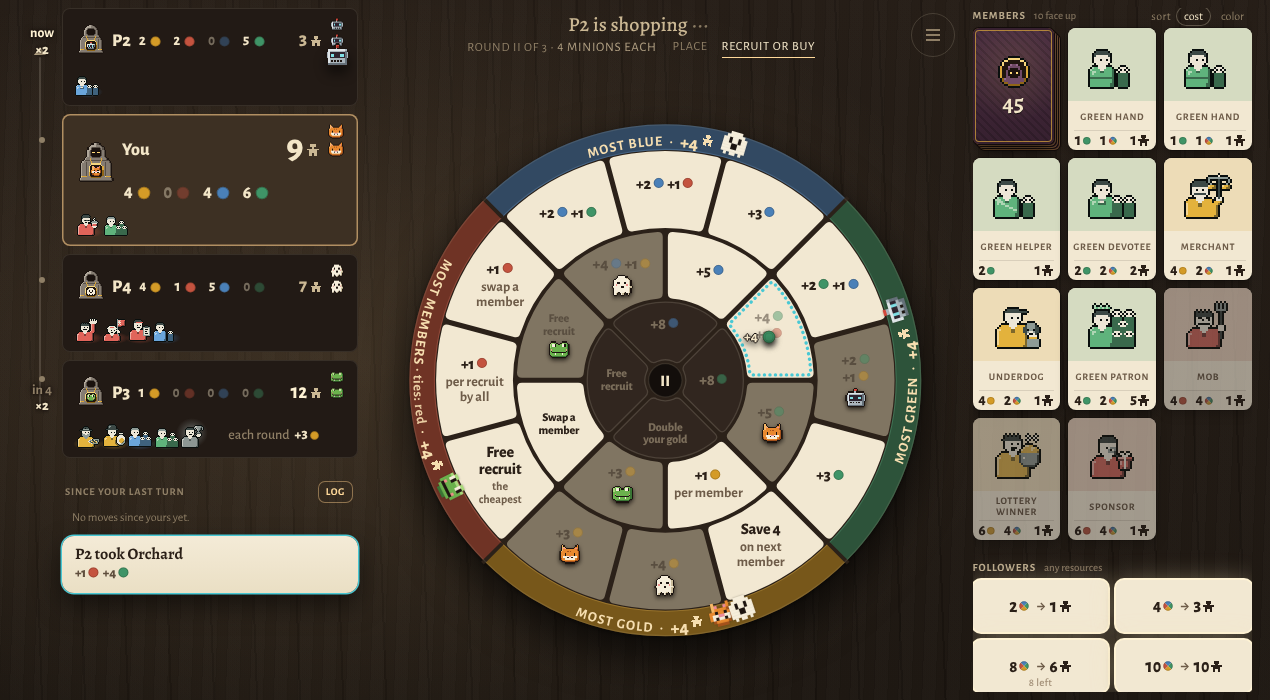
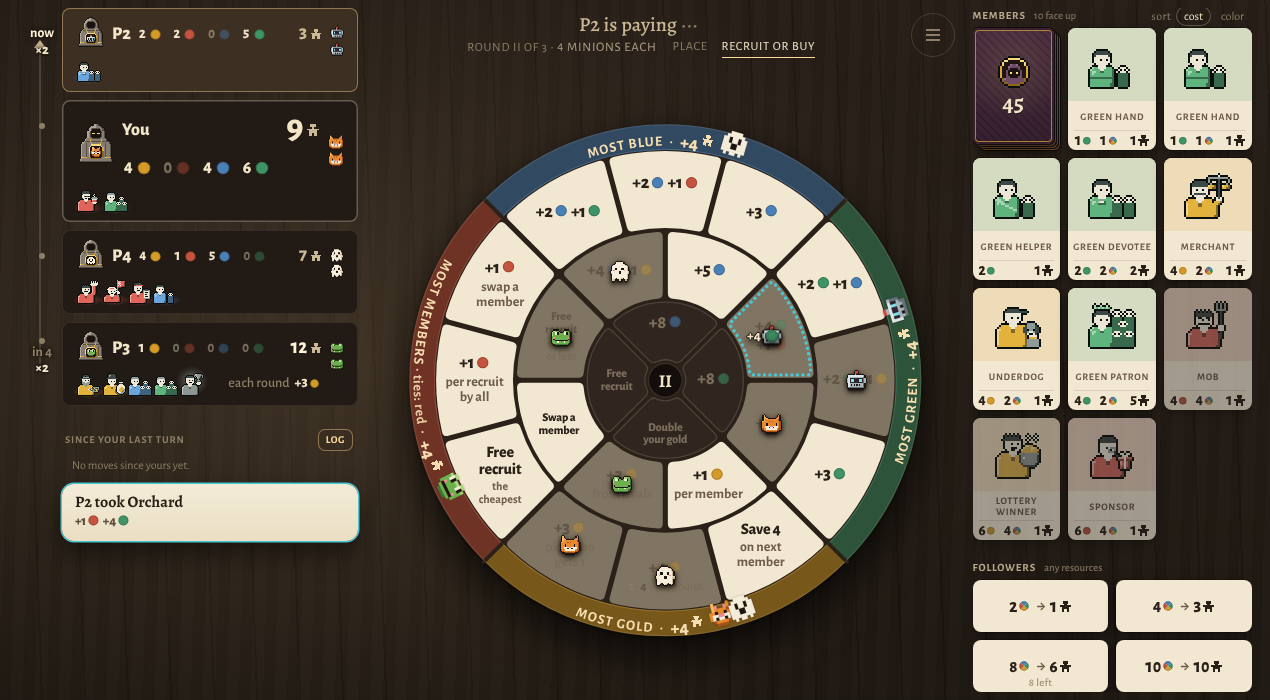
WIP checkpoint: R3 cards/hovers final, agents in progress
Claude-Session: https://claude.ai/code/session_017rw3aQa9iJEjdvvwQLY84z

diff --git a/src/v4/lamp.css b/src/v4/lamp.css
@@ -251,8 +251,8 @@ h1,h2,h3{font-family:var(--serif)}
 .lt .stage .slot.lit .base::after{content:"";position:absolute;inset:-3px;border-radius:50%;box-shadow:0 0 18px 7px rgba(var(--lamp),.6);animation:litbreath 2.4s ease-in-out infinite;pointer-events:none}
 @keyframes litbreath{0%,100%{opacity:.35}50%{opacity:1}}
 /* while you place, open spaces you can't take recede a little, so the lit ones lead */
-.lt[data-yours="1"][data-phase="place"] .stage .slot.open:not(.lit):not(.taken) .base{opacity:.62}
-.lt[data-yours="1"][data-phase="place"] .stage .slot.open:not(.lit):not(.taken) .face{opacity:.55}
+.lt[data-yours="1"][data-phase="place"] .stage .slot.open:not(.lit):not(.taken) .base,.lt[data-yours="1"][data-phase="choose"] .stage .slot.open:not(.lit):not(.taken) .base{opacity:.62}
+.lt[data-yours="1"][data-phase="place"] .stage .slot.open:not(.lit):not(.taken) .face,.lt[data-yours="1"][data-phase="choose"] .stage .slot.open:not(.lit):not(.taken) .face{opacity:.55}
 .lt .stage .slot.can:hover,.lt .stage .slot.sel{z-index:4}
 .lt .stage .slot.can:hover .base,.lt .stage .slot.sel .base{transform:scale(1.08);box-shadow:inset 0 0 0 2.5px var(--paper-ink),0 0 0 4px var(--lamp-ink),0 8px 18px rgba(0,0,0,.45)}
 /* tactile: a lit space presses down under the pointer (src/v4/motion.js) */
@@ -320,7 +320,8 @@ h1,h2,h3{font-family:var(--serif)}
 .lt [data-spaces="panels"] .stage svg.wheel-paper .pcell .fresh{fill:none;stroke-width:2;stroke-dasharray:.1 4.2;stroke-linecap:round}
 .lt [data-spaces="panels"] .stage svg.wheel-paper .pcell .fresh.newest{stroke-width:2.6}
 /* while you place, open panels you can't take (a pick that names a few) step back toward the taken ones */
-.lt[data-yours="1"][data-phase="place"] [data-spaces="panels"] .stage svg.wheel-paper .pcell.open:not(.lit):not(.taken) .wash{fill:color-mix(in srgb,var(--pl-paper,#f2e8d2) 60%,var(--board,#2b2119))}
+/* a choice made off the wheel (a stack, a seat, a member): open spaces step back like unlit ones, nothing there is yours to take */
+.lt[data-yours="1"][data-phase="choose"] [data-spaces="panels"] .stage svg.wheel-paper .pcell.open:not(.lit):not(.taken) .wash,.lt[data-yours="1"][data-phase="place"] [data-spaces="panels"] .stage svg.wheel-paper .pcell.open:not(.lit):not(.taken) .wash{fill:color-mix(in srgb,var(--pl-paper,#f2e8d2) 60%,var(--board,#2b2119))}
 /* not your turn: the open panels rest a step below lit paper, so the lamp means something when it comes */
 .lt [data-spaces="panels"] .stage svg.wheel-paper .pcell.open:not(.lit):not(.taken) .wash{fill:var(--pl-paper,#f2e8d2)}
 /* the rim (plate 1b): light type on the quadrant's deep band; the color as its dot in a light ring; the prize a size up */
@@ -373,7 +374,7 @@ h1,h2,h3{font-family:var(--serif)}
 .lt [data-spaces="panels"] .stage .slot.locked .face{color:var(--pl-cream-2,#b9a98c)}
 .lt [data-spaces="panels"] .stage .slot.locked .face > *{opacity:.55}
 .lt [data-spaces="panels"] .stage .slot.locked .face .second,.lt [data-spaces="panels"] .stage .slot.locked .face .note,.lt [data-spaces="panels"] .stage .slot.locked .face .note .now{color:var(--pl-cream-3,#7d6e5a)}
-.lt[data-yours="1"][data-phase="place"] [data-spaces="panels"] .stage .slot.open:not(.lit):not(.taken) .face{opacity:.6}
+.lt[data-yours="1"][data-phase="place"] [data-spaces="panels"] .stage .slot.open:not(.lit):not(.taken) .face,.lt[data-yours="1"][data-phase="choose"] [data-spaces="panels"] .stage .slot.open:not(.lit):not(.taken) .face{opacity:.6}
 
 /* the hover card on a space: paper */
 .lt .stage .peek{background:linear-gradient(180deg,var(--paper),var(--paper-2));color:var(--paper-ink);border:0;box-shadow:0 0 0 1px rgba(80,60,30,.25),0 12px 30px rgba(0,0,0,.55);border-radius:10px;width:250px;z-index:20}

diff --git a/src/v4/game/lamp-b.css b/src/v4/game/lamp-b.css
@@ -396,6 +396,13 @@
   box-shadow:0 0 0 1px rgba(43,32,24,.10),0 12px 32px rgba(0,0,0,.45),0 2px 4px rgba(0,0,0,.3)}
 .lt-hover.popover{padding:14px 16px}
 .popover:has(.tip-body > .mc){padding:14px 16px}
+/* one look for every card that opens on hover (RC1 sweep 44: the since-strip's, the follower buys', the keywords' and
+   the results' cards opened dark while the space and member cards were paper). Every Tip card is the same paper; the
+   dark theme's text colors are re-pointed to the paper's inks inside it, so its content needs no restyling. */
+.popover:has(> .tip-body){background:var(--paper-lit,#fbf6ea);color:var(--pl-ink,#2b2018);border:0;border-radius:var(--corner,8px);padding:14px 16px;
+  box-shadow:0 0 0 1px rgba(43,32,24,.10),0 12px 32px rgba(0,0,0,.45),0 2px 4px rgba(0,0,0,.3);
+  --ink:#2b2018;--muted:#6e5c49;--cream:#2b2018;--cream-2:#6e5c49;--cream-3:#a39078;--rim:rgba(43,32,24,.16)}
+.popover > .tip-body{font-family:var(--sans);font-size:14px;line-height:20px}
 .lt-note{color:var(--pl-ink,#2b2018);font-family:var(--sans);font-size:14px;line-height:20px}
 .lt-card-body p{font-size:16px;line-height:21px;color:var(--pl-ink,#2b2018);margin:4px 0 0;text-wrap:pretty}
 .lt-card-body h4,.lt-card-body h4.sc-name{font-family:var(--sans);font-weight:800;font-size:16px;line-height:20px;color:var(--pl-ink,#2b2018);margin:0}

diff --git a/src/v4/game/director.js b/src/v4/game/director.js
@@ -297,6 +297,18 @@ const hopEl = (el, ms) => { if (el && el.animate && !el.rectOnly) track(el.anima
 const square = (r, size) => ({ left: r.left + r.width / 2 - size / 2, top: r.top + r.height / 2 - size / 2, width: size, height: size });
 const onFinish = (anim, fn) => { if (anim && anim.finished) anim.finished.then(() => fn(), () => fn()); else fn(); };
 
+/**
+ * When the shop's new card may be dealt, in ms from this state's commit: after a recruited card has left its slot and
+ * the row has slid (grammar B4), so two cards never share a slot. 0 when nothing was bought from the shop.
+ */
+export function dealAfter(state) {
+  const fx = state && Array.isArray(state.effects) ? state.effects : null;
+  const rec = fx && fx.find(e => e.type === 'recruit' && e.from && e.from.kind === 'shop');
+  if (!rec) return 0;
+  const paid = fx.filter(e => e.type === 'pay' && e.cause === rec.cause).reduce((t, e) => t + Math.min(3, e.what.n), 0);
+  return Math.round(MO.cardLift + Math.max(0, paid - 1) * MO.pieceStagger + flightMs(TYPICAL) * (2 / 3) + MO.shopSlide);
+}
+
 /** (kept for callers: a placed minion's slot is read when its chain plays) */
 export const noteTable = root => { void root; };
 

diff --git a/src/v4/game/MemberDeck.jsx b/src/v4/game/MemberDeck.jsx
@@ -13,6 +13,7 @@ import { onTable } from './Info.jsx';
 import { ResourceGlyph } from './Glyphs.jsx';
 import { motionOK } from './flight.js';
 import { MO } from '../motion.js';
+import { dealAfter } from './director.js';
 
 /** At or below this many cards the count warms. */
 export const DECK_LOW = 10;
@@ -109,7 +110,7 @@ export function useDeal(rowRef, deckRef, state) {
       ghost.dataset.born = String(Date.now());
       Object.assign(ghost.style, { position: 'fixed', left: `${b.left}px`, top: `${b.top}px`, width: `${b.width}px`, height: `${b.height}px`, margin: '0', zIndex: '13', pointerEvents: 'none' });
       document.body.appendChild(ghost);
-      const duration = MO.deal, delay = k * MO.dealStagger;
+      const duration = MO.deal, delay = dealAfter(state) + k * MO.dealStagger; // after the bought card has left its slot (director.js)
       const anim = ghost.animate([
         { transform: `translate(${dx}px,${dy}px) ${s} perspective(500px) rotateY(88deg)` },
         { transform: `translate(${dx}px,${dy}px) ${s} perspective(500px) rotateY(0deg)`, offset: 0.32 },

diff --git a/src/v4/game/flight.js b/src/v4/game/flight.js
@@ -370,6 +370,7 @@ export function flyPath(html, className, a, b, { path = 'arc', duration = 320, l
     // it fades onto what it lands on in its last 15% (a payment fades in its own frames)
     if (fade && path !== 'drop') track(outer.animate([{ opacity: 1 }, { opacity: 1, offset: 0.85 }, { opacity: 0 }], { duration, delay, fill: 'both' }));
     if (h) track(inner.animate([{ translate: '0 0' }, { translate: `0 ${-h}px`, offset: 0.5, easing: 'ease-in' }, { translate: '0 0' }], { duration, delay, easing: 'ease-out', fill: 'both' }));
+    if (k === 0 && label) { const n = inner.querySelector('.bundle-n'); if (n) track(n.animate([{ opacity: 1 }, { opacity: 1, offset: 0.75 }, { opacity: 0 }], { duration, delay, fill: 'both' })); }
     if (turnTo && k === 0) {
       const tint = document.createElement('div');
       tint.className = 'path-turn';

diff --git a/design/eval/critic-calibration/results.md b/design/eval/critic-calibration/results.md
@@ -7,6 +7,8 @@ Answer key: answer-key.md (Cory's 2026-10-15 play notes: 24 items from the 03:40
 | 0 | RC1 panel (newcomer, strategist, saboteur) + ui-critic round 2: Playwright with DOM access, top 8, grade first | ~45 across 4 reports | 2 (1 + 2 halves) | 8% | ~3 | ~9% | baseline; see diagnosis.md |
 | 1 | brief-v1 + checklist v1, v4-eyes only (no DOM), 1 fresh tester, laptop, 38 min, 3 tab crashes (box out of memory) | 115 | 14 (10 + 8 halves) | 58% | 19 | 56% | below 80%: brief → v2 |
 | 2 | brief-v2 (restraint + eight audits) + checklist v1, v4-eyes, 1 fresh tester, 31 min, grade C− | 116 + audits | 19 (17 + 4 halves) | 79% | 24.5 | 72% | below 80%: checklist and brief → v3 |
+| 3 | brief-v3 + checklist v3 (ten audits in section E, decipher, squint, counting, every-name-opens-its-card), v4-eyes, 1 fresh tester, 30 min, grade D+ | 72 + audits | 17 (15 + 4 halves) | 71% | 24.5 | 72% | ties round 2 overall; better on items 25–37 (7.5 vs 5.5), worse on 1–24 |
+| 2+3 merged | the two lists together (what a two-tester panel would hand in) | 188 | 20 | 83% | 28 | 82% | over the bar |
 
 ### Round 1 scoring (answer key number → tester-1 finding)
 Full: 1 snappy (#4 #14 #32 #49 #64 #104 #115, every one with ms) · 3 docked hovers (#19 "160–946 px from the pointer", #70) · 5 effect not on the card (#17) · 8 hover noise lines (#23 "In the shop") · 10 steal picked from a detached list (#35 #86 #87) · 11 pay sheet (#42 #76 #77) · 14 seats as mostly empty boxes (#31) · 17 round end runs unwatched and can't be narrated (#57 #58 #97 #109) · 19 members with no hover (#67) · 24 "badged" Blue (#16 #85).
@@ -22,3 +24,19 @@ Missed: 2 wheel spin ("not tested, ran out of time") · 4 setup pick's call to a
 Items 25–37 present on RC1: 26 shorthand (#18 #115) · 27 clipping (#20 #59 #74) · 28 faint glow on legal spaces (#23) · 29 detached lists (#27 #91 #103) · 35 empty seats: full. 30 shaped coins: half (counted in the glyph census, not called out). Missed: 32 seat hover repeats (called "useful") · 33 using a member (never used one) · 36 floating minions ("readable") · 37 log names (found the log only at results).
 Instrument audit: 96 Bash commands, all v4-eyes; 101 screenshots read; zero DOM or repo access.
 What v3 changes (no answers leaked, all generic): the audits move into the checklist (section E) so every standing agent gets them; adds a space budget and a decipher test; a squint test for available vs taken vs locked; "every name, anywhere, opens its card"; "a popover that repeats its target is a finding"; a counting test; and the walk now asks for every board interaction the rulebook mentions on turn one, using a self-activated member, and hovering names in the log.
+
+### Round 3 scoring (tester 3, brief v3)
+Full on items 1–24: 1 latency (#1 #4 #7 #13 #20 #41 #51 #65 #72) · 3 docked ("100–930 px from pointer") · 5 effect not on the card (anatomy) · 8 repeated lines in card dialogs (#17 #22 #42) · 9 "about 25 marks to learn" (glyph census) · 10 steal list (#14 #44) · 11 pay dialog's unlabeled "0 0 0 0" row (#18 #19 #20) · 12 "buy followers: four small grey pills on the far right, and it is the winning strategy" (prominence, #68) · 13 the status row duplicates the seat counts (#53, duplicate census) · 14 "bot seats mostly empty" (space budget) · 15 shop order "with no visible rule" (order audit) · 16 deck hover "adds little" (hover census) · 17 Reckoning never watchable (#35 #38 #56) · 19 own-member hover clipped off-screen (#29 #50) · 20 "samey at 16 px" sprites.
+Half: 6 cost repeated on card, hover and dialog · 21 snaps, not sprite quality · 23 colliding, clipped rings (#36 #60) · 24 "/badged" decoded, badge vs magenta.
+Missed: 2 wheel spin ("I did not try spinning it", though v3 asked) · 4 setup pick's call to action (judged "Right") · 7 "need N" (listed, not called loud) · 18 Redistribute's "richer" (never read it) · 22 the rim (no mention).
+Items 25–37: 26 decipher table ("gift 1": guessed a follower, it's a resource) · 27 clipping · 28 "taken spaces differ from open ones only by fading" (#31 #71) · 29 detached dialogs everywhere (#14 #40 #52 #62) · 33 the once-per-game "Use" pill (#63) · 35 empty bot seats · 37 log names: space names not linked, member popovers dark on dark (#26 #28): full. 36 minions "a pile", countable: half. Missed: 30 picker coins · 32 seat hover ("the best popover in the game").
+Instrument audit: 79 Bash commands, all v4-eyes; 92 screenshots read; zero DOM or repo access.
+
+### Where this leaves the instrument
+- **No single run reached 80%.** Two runs on the screen-only briefs, merged, reach 82–83%. The rounds differ by tester as much as by brief (same score, different misses), so one tester's list is a sample; a two-tester panel is the unit that clears the bar.
+- **Standing setup (as of round 3):** briefs v3 (brief.md, checklist.md; ui-critic, game-skeptic and playtester point at them), and at each milestone **two fresh screen-only testers, lists merged**. This needs EYES_MAX=2, or the two run one after the other.
+- **Misses that persist, and why:**
+  - Coverage under time pressure: the wheel spin, Redistribute's text and the picker coins were each skipped or never met.
+  - Taste disagreements the restraint rule didn't flip: all three testers judged the starting-pick coins a clear call to action, and the seat hover and "need N" useful. Cory disagrees.
+  - Those last ones are his calls. A brief can't learn them without being told the answer, and telling it would be leaking. The next answer key will show whether they recur.
+- **Next calibration:** re-run on the next frozen milestone against this key plus whatever Cory finds next. Score the merged two-tester list, and keep the briefs only if it holds ≥80%.
